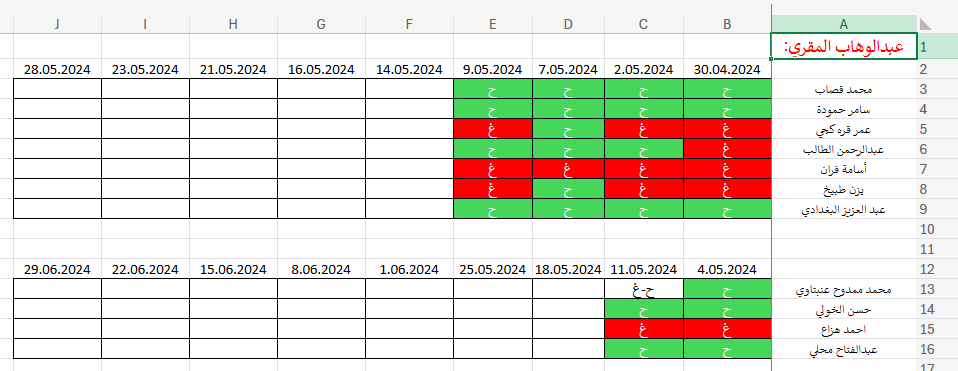
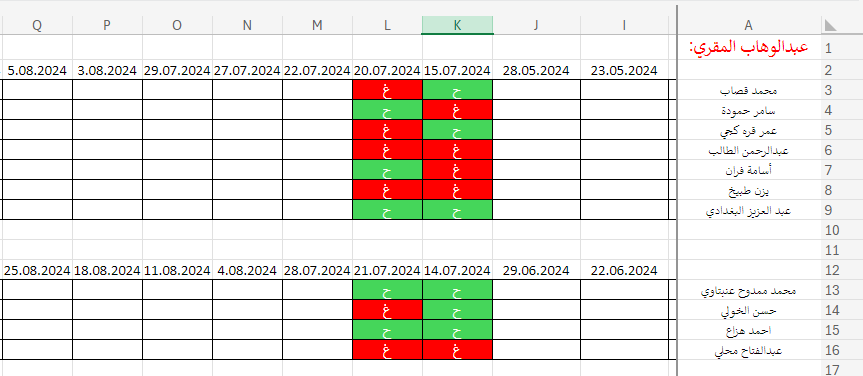
Attendance Updated

diff --git a/Attendance/5.html b/Attendance/5.html
@@ -12,7 +12,8 @@
       <span>آخر تحديث للمعلومات بتاريخ:</span>
       <div id="placeholder" style="margin-bottom: 10px"></div>
     </header>
-    <img src="images/عزالدين العاني/Screenshot 2024-05-13 at 09-54-19 فرز عربي جديد.xlsx - Microsoft Excel Online.png" alt="" />
+    <img src="images/عزالدين العاني/Screenshot 2024-07-21 235522.png" alt="" />
+    <img src="images/عزالدين العاني/Screenshot 2024-07-21 235553.png" alt="" />
     <script>
       document.getElementById("placeholder").innerHTML = new Date(
         document.lastModified

diff --git a/Attendance/12.html b/Attendance/12.html
@@ -12,7 +12,8 @@
       <span>آخر تحديث للمعلومات بتاريخ:</span>
       <div id="placeholder" style="margin-bottom: 10px"></div>
     </header>
-    <img src="images/محمد كعيكاتي/Screenshot 2024-05-13 at 09-55-47 فرز عربي جديد.xlsx - Microsoft Excel Online.png" alt="" />
+    <img src="images/محمد كعيكاتي/Screenshot 2024-07-22 000014.png" alt="" />
+    <img src="images/محمد كعيكاتي/Screenshot 2024-07-22 000058.png" alt="" />
     <script>
       document.getElementById("placeholder").innerHTML = new Date(
         document.lastModified

diff --git a/Attendance/6.html b/Attendance/6.html
@@ -12,7 +12,7 @@
       <span>آخر تحديث للمعلومات بتاريخ:</span>
       <div id="placeholder" style="margin-bottom: 10px"></div>
     </header>
-    <img src="images/محمد أنس الحلبي/Screenshot 2024-05-13 at 09-54-28 فرز عربي جديد.xlsx - Microsoft Excel Online.png" alt="" />
+    <img src="images/محمد أنس الحلبي/Screenshot 2024-07-21 233901.png" alt="" />
     <script>
       document.getElementById("placeholder").innerHTML = new Date(
         document.lastModified
